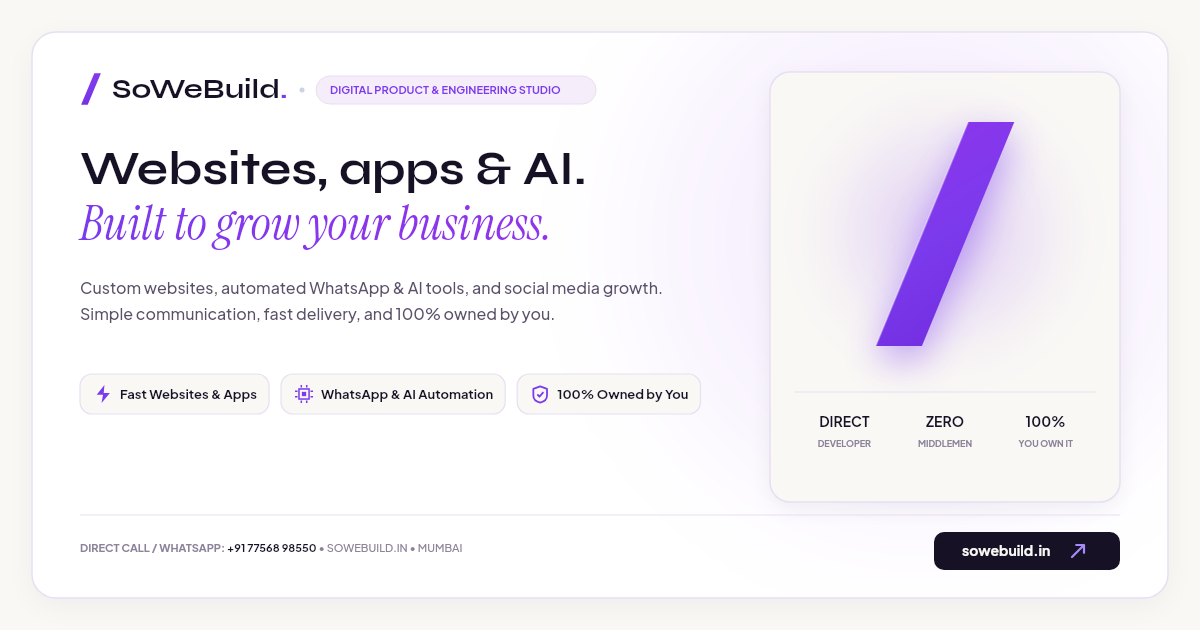
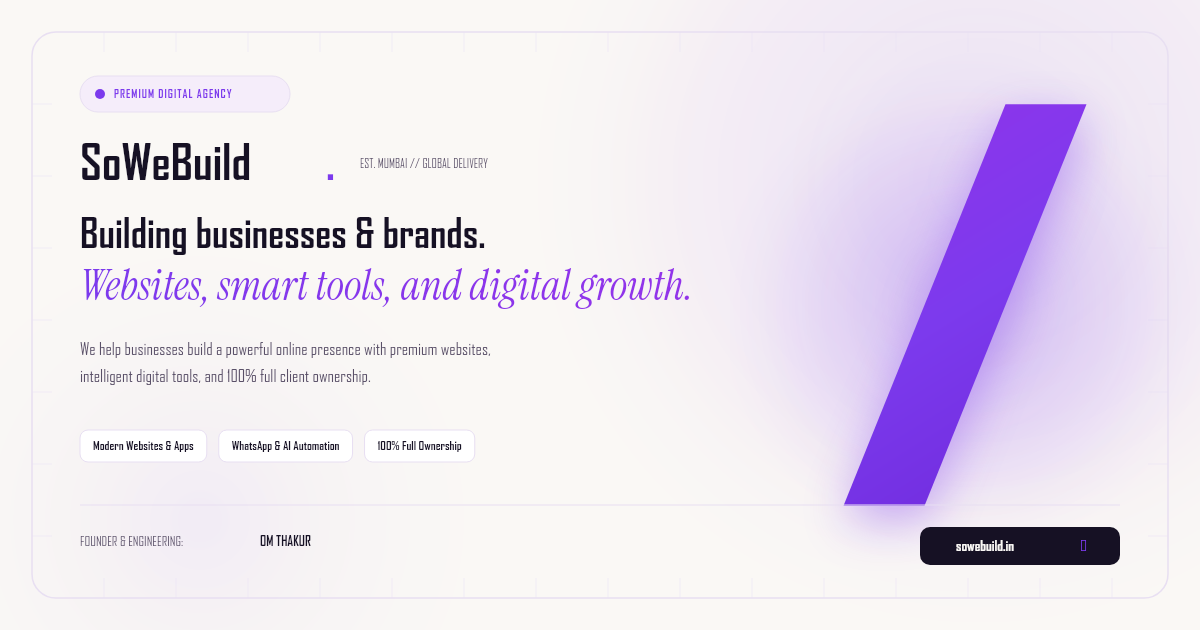
style(copy): streamline headers, remove redundant subtext, and simplify messaging across all sections

diff --git a/src/components/sections/EcosystemSection.tsx b/src/components/sections/EcosystemSection.tsx
@@ -54,26 +54,21 @@ export default function EcosystemSection() {
         {/* ============================================================== */}
         {/* SECTION HEADER                                                 */}
         {/* ============================================================== */}
-        <div className="flex flex-col lg:flex-row lg:items-end justify-between gap-6 mb-12 sm:mb-16 text-center sm:text-left">
+        <div className="flex flex-col lg:flex-row lg:items-end justify-between gap-6 mb-8 sm:mb-12 text-center sm:text-left">
           <div className="max-w-3xl flex flex-col items-center sm:items-start mx-auto sm:mx-0">
-            <div className="label flex items-center justify-center sm:justify-start gap-2 mb-3">
-              <span className="size-2 rounded-full bg-[#7C3AED] shadow-[0_0_8px_rgba(124,58,237,0.4)]" />
-              <span className="font-mono text-xs uppercase tracking-widest text-[#7C3AED] font-bold">
-                Ecosystem &amp; Engineering Direction
-              </span>
+            <div className="label mb-2">
+              Leadership &amp; Systems
             </div>
 
-            <h2 className="heading-xl tracking-tight text-[#161124] mb-3">
-              Built by engineers. <br className="hidden sm:inline" />
+            <h2 className="heading-xl tracking-tight text-[#161124] mb-2">
+              Hands-on engineering.{" "}
               <span className="font-serif italic font-normal text-[#7C3AED]">
-                Backed by production
-              </span>{" "}
-              craft.
+                Direct communication.
+              </span>
             </h2>
 
-            <p className="body-lg text-[#5A5068] max-w-2xl leading-relaxed">
-              We connect client platform development with personal engineering depth and open-source tooling.
-              Zero agency bloat, directly architected from first principles.
+            <p className="body-lg text-[#5A5068] max-w-xl leading-relaxed">
+              Led by Om Thakur. You work directly with the developers writing your code, with zero middlemen.
             </p>
           </div>
 
@@ -194,9 +189,7 @@ export default function EcosystemSection() {
               </h3>
 
               <p className="text-sm sm:text-base text-[#5A5068] leading-relaxed mb-6">
-                We don&apos;t just build for clients, we package our production playbooks, developer tools, micro-apps,
-                and architectural guides for developers and founders worldwide. Hosted on an isolated digital store
-                for instant checkout.
+                We package our proven templates, starter code, and practical guides so businesses and developers can launch faster. Available for instant download.
               </p>
 
               {/* Store Product Category Highlights */}
@@ -204,18 +197,18 @@ export default function EcosystemSection() {
                 {[
                   {
                     icon: <BookOpenIcon className="size-4 text-[#7C3AED]" />,
-                    title: "Engineering Playbooks & Ebooks",
-                    desc: "Architectural blueprints for high-concurrency systems & WebSockets.",
+                    title: "Practical Guides & Ebooks",
+                    desc: "Step-by-step blueprints for building and scaling digital products.",
                   },
                   {
                     icon: <CodeIcon className="size-4 text-[#7C3AED]" />,
                     title: "Production Starter Stacks",
-                    desc: "Next.js, FastAPI & PostgreSQL boilerplates with authentication & RBAC.",
+                    desc: "Clean, production-ready website and application templates.",
                   },
                   {
                     icon: <CpuIcon className="size-4 text-[#7C3AED]" />,
-                    title: "AI & WhatsApp Agent Templates",
-                    desc: "Autonomous workflow scripts and Cloud API deployment setups.",
+                    title: "AI & WhatsApp Workflows",
+                    desc: "Ready-to-use automation and customer communication scripts.",
                   },
                 ].map((item) => (
                   <div

diff --git a/src/components/sections/FAQSection.tsx b/src/components/sections/FAQSection.tsx
@@ -6,7 +6,7 @@ export const FAQS = [
   {
     question: "Who owns the website, designs, and code?",
     answer:
-      "You own 100% of everything we build for you from day one. All files, designs, code, accounts, and credentials belong entirely to you. We sign an NDA and ownership transfer agreement before kickoff. Zero monthly hostage fees or agency lock-ins.",
+      "You own 100% of everything we build for you from day one. All files, designs, code, accounts, and credentials belong entirely to you. We sign an NDA and ownership transfer agreement before kickoff. Zero recurring lock-ins.",
     category: "Ownership & IP",
   },
   {
@@ -123,36 +123,22 @@ export default function FAQSection() {
         {/* ============================================================== */}
         {/* SECTION HEADER                                                 */}
         {/* ============================================================== */}
-        <div className="flex flex-col lg:flex-row lg:items-end justify-between gap-6 mb-12 sm:mb-16 text-center sm:text-left">
-          <div className="max-w-3xl flex flex-col items-center sm:items-start mx-auto sm:mx-0">
-            <div className="label flex items-center justify-center sm:justify-start gap-2 mb-3">
-              <span className="size-2 rounded-full bg-[#7C3AED] shadow-[0_0_8px_rgba(124,58,237,0.4)]" />
-              <span className="font-mono text-xs uppercase tracking-widest text-[#7C3AED] font-bold">
-                Studio Standards &amp; Architecture FAQ
-              </span>
+        <div className="flex flex-col sm:flex-row sm:items-end justify-between gap-4 mb-8 sm:mb-12 text-center sm:text-left">
+          <div className="flex flex-col items-center sm:items-start mx-auto sm:mx-0">
+            <div className="label mb-2">
+              Standards &amp; FAQ
             </div>
 
-            <h2 className="heading-xl tracking-tight text-[#161124] mb-3">
-              Direct answers. <br className="hidden sm:inline" />
+            <h2 className="heading-xl tracking-tight text-[#161124] mb-2">
+              Direct answers.{" "}
               <span className="font-serif italic font-normal text-[#7C3AED]">
-                Zero ambiguous
-              </span>{" "}
-              agency rhetoric.
+                Zero agency fluff.
+              </span>
             </h2>
 
-            <p className="body-lg text-[#5A5068] max-w-2xl leading-relaxed">
-              Before committing to a build, ambitious leaders need absolute clarity on intellectual property,
-              turnaround SLAs, compliance standards, and engineering leadership.
+            <p className="body-lg text-[#5A5068] max-w-xl leading-relaxed">
+              Everything you need to know about ownership, delivery timelines, and how we build.
             </p>
-          </div>
-
-          <div className="flex items-center justify-center sm:justify-start gap-3">
-            <a
-              href="#contact"
-              className="inline-flex items-center justify-center gap-1.5 rounded-full bg-[#7C3AED] px-5 py-2.5 font-mono text-xs font-bold text-white shadow-md shadow-[#7C3AED]/25 hover:bg-[#6D28D9] transition-all"
-            >
-              <span>Ask an Architect →</span>
-            </a>
           </div>
         </div>
 

diff --git a/src/components/sections/HeroSection.tsx b/src/components/sections/HeroSection.tsx
@@ -232,11 +232,11 @@ export default function HeroSection({ ready = true }: { ready?: boolean }) {
             lineHeight: 1.6,
           }}
         >
-          We help businesses build their brand and powerful online presence with our premium services, from modern websites to intelligent digital tools that scale your company.
+          We help businesses build their brand and online presence with premium websites, custom tools, and smart automation.
         </p>
 
-        {/* CTA Buttons */}
-        <div className="mt-6 sm:mt-8 flex flex-col sm:flex-row items-stretch sm:items-center justify-center sm:justify-start gap-3 w-full sm:w-auto">
+        {/* CTA Button */}
+        <div className="mt-6 sm:mt-8 flex items-center justify-center sm:justify-start w-full sm:w-auto">
           <a href="#contact" className="btn-primary w-full sm:w-auto text-center justify-center">
             <span>Start a project</span>
             <svg
@@ -255,33 +255,6 @@ export default function HeroSection({ ready = true }: { ready?: boolean }) {
               />
             </svg>
           </a>
-          <a href="#work" className="btn-outline w-full sm:w-auto text-center justify-center">
-            <span>Explore selected work</span>
-          </a>
-        </div>
-
-        {/* Studio Credential Strip: Balanced 3-column grid across mobile */}
-        <div
-          className="w-full mt-8 sm:mt-12 pt-5 sm:pt-6 border-t border-[var(--color-border)] grid grid-cols-3 gap-2 sm:gap-8 text-center sm:text-left"
-        >
-          {[
-            { val: "100%", lbl: "You Own Everything" },
-            { val: "< 24h", lbl: "Fast Human Response" },
-            { val: "Direct", lbl: "Talk to Builders" },
-          ].map((stat) => (
-            <div key={stat.lbl} className="flex flex-col items-center sm:items-start">
-              <div
-                className="font-display text-base sm:text-xl font-bold text-[var(--color-text)] leading-tight"
-              >
-                {stat.val}
-              </div>
-              <div
-                className="label text-[8px] sm:text-[10px] text-[var(--color-text-muted)] mt-1 tracking-tight sm:tracking-wider leading-tight"
-              >
-                {stat.lbl}
-              </div>
-            </div>
-          ))}
         </div>
       </div>
 

diff --git a/src/components/sections/ServicesSection.tsx b/src/components/sections/ServicesSection.tsx
@@ -269,26 +269,21 @@ export default function ServicesSection() {
         {/* ============================================================== */}
         {/* MASTER CATALOGUE HEADER                                        */}
         {/* ============================================================== */}
-        <div className="flex flex-col lg:flex-row lg:items-end justify-between gap-6 mb-8 sm:mb-14 text-center sm:text-left">
+        <div className="flex flex-col lg:flex-row lg:items-end justify-between gap-6 mb-8 sm:mb-12 text-center sm:text-left">
           <div className="max-w-3xl flex flex-col items-center sm:items-start">
-            {/* Eyebrow Label */}
-            <div className="label flex flex-wrap items-center justify-center sm:justify-start gap-2 mb-3">
-              <span className="bg-[#1E1330] text-white px-3 py-1 rounded-full text-[10px] font-semibold tracking-wider uppercase border border-[#7C3AED]/40 shadow-xs">
-                Master Services Catalogue
-              </span>
+            <div className="label mb-2">
+              Services &amp; Capabilities
             </div>
 
             <h2 className="heading-xl tracking-tight text-[#161124] mb-3 text-center sm:text-left">
-              A Complete Digital, Creative, <br className="hidden sm:inline" />
+              Everything your brand needs. <br className="hidden sm:inline" />
               <span className="font-serif italic font-normal text-[#7C3AED]">
-                Technology &amp; Growth
-              </span>{" "}
-              Agency.
+                Built under one roof.
+              </span>
             </h2>
 
             <p className="body-lg text-[#5A5068] max-w-2xl leading-relaxed text-center sm:text-left">
-              We operate across 10 specialized divisions delivering full-lifecycle digital dominance.
-              Zero generic handoffs, direct senior architecture from strategic inception to global scale.
+              We operate across 10 specialized divisions to design, engineer, and scale your brand online.
             </p>
           </div>
 

diff --git a/src/components/sections/ContactSection.tsx b/src/components/sections/ContactSection.tsx
@@ -212,7 +212,7 @@ export default function ContactSection() {
                 marginBottom: "clamp(1.5rem, 3vw, 2.25rem)",
               }}
             >
-              Tell us about your business goals. We review every brief and reply within 24 hours with a clear roadmap, upfront pricing, and zero agency fluff.
+              Tell us what you want to build. We reply within 24 hours with a clear roadmap and upfront pricing.
             </p>
 
             {/* Client Assurance Badges */}
@@ -227,18 +227,18 @@ export default function ContactSection() {
               {[
                 {
                   icon: <ZapIcon />,
-                  title: "Fast 24-Hour Plan",
-                  desc: "We review your requirements and send a clear timeline and transparent pricing.",
+                  title: "24-Hour Roadmap",
+                  desc: "Clear scope, milestone breakdown, and transparent pricing.",
                 },
                 {
                   icon: <EyeIcon />,
-                  title: "Weekly Working Previews",
-                  desc: "Test your website or application on your own mobile device every 7 days as we build it.",
+                  title: "Weekly Working Demos",
+                  desc: "Test live progress on your phone every 7 days as we build.",
                 },
                 {
                   icon: <LockIcon />,
-                  title: "100% Full IP Ownership",
-                  desc: "You own all code, repositories, designs, and cloud accounts. Zero agency hostage lock-ins.",
+                  title: "100% Full Ownership",
+                  desc: "You own all code, repositories, designs, and cloud accounts.",
                 },
               ].map((badge) => (
                 <div

diff --git a/src/components/ArchitectureConsole.tsx b/src/components/ArchitectureConsole.tsx
@@ -41,7 +41,7 @@ const TIERS: ArchTier[] = [
       "Type-safe API layer with compiled schema contracts, role-based auth guards, and real-time streaming connections.",
     technologies: ["TypeScript", "Server Actions", "REST / GraphQL", "JWT Auth"],
     metrics: [
-      { label: "Throughput", value: "10K req/s" },
+      { label: "Capacity", value: "10K req/s" },
       { label: "Type Safety", value: "100% End-to-End" },
     ],
   },
@@ -53,7 +53,7 @@ const TIERS: ArchTier[] = [
     latency: "<8ms Query",
     status: "Replicated",
     description:
-      "High-throughput relational storage with sub-millisecond in-memory cache, vector embeddings for AI similarity, and automated encrypted backups.",
+      "High-performance database storage with sub-millisecond in-memory cache, vector embeddings for AI similarity, and automated encrypted backups.",
     technologies: ["PostgreSQL", "Supabase", "Redis Cache", "pgvector"],
     metrics: [
       { label: "Replication", value: "Multi-AZ" },

diff --git a/src/components/sections/WorkSection.tsx b/src/components/sections/WorkSection.tsx
@@ -75,9 +75,6 @@ export default function WorkSection() {
               <span className="serif-accent">Measured</span> results.
             </h2>
           </div>
-          <p className="body-lg max-w-md text-center sm:text-left mx-auto sm:mx-0 text-[var(--color-text-secondary)]">
-            Digital products and flagship platforms engineered by our studio.
-          </p>
         </div>
 
         {/* 2-Column Responsive Grid: Both Cards Fit Beautifully On Screen */}
